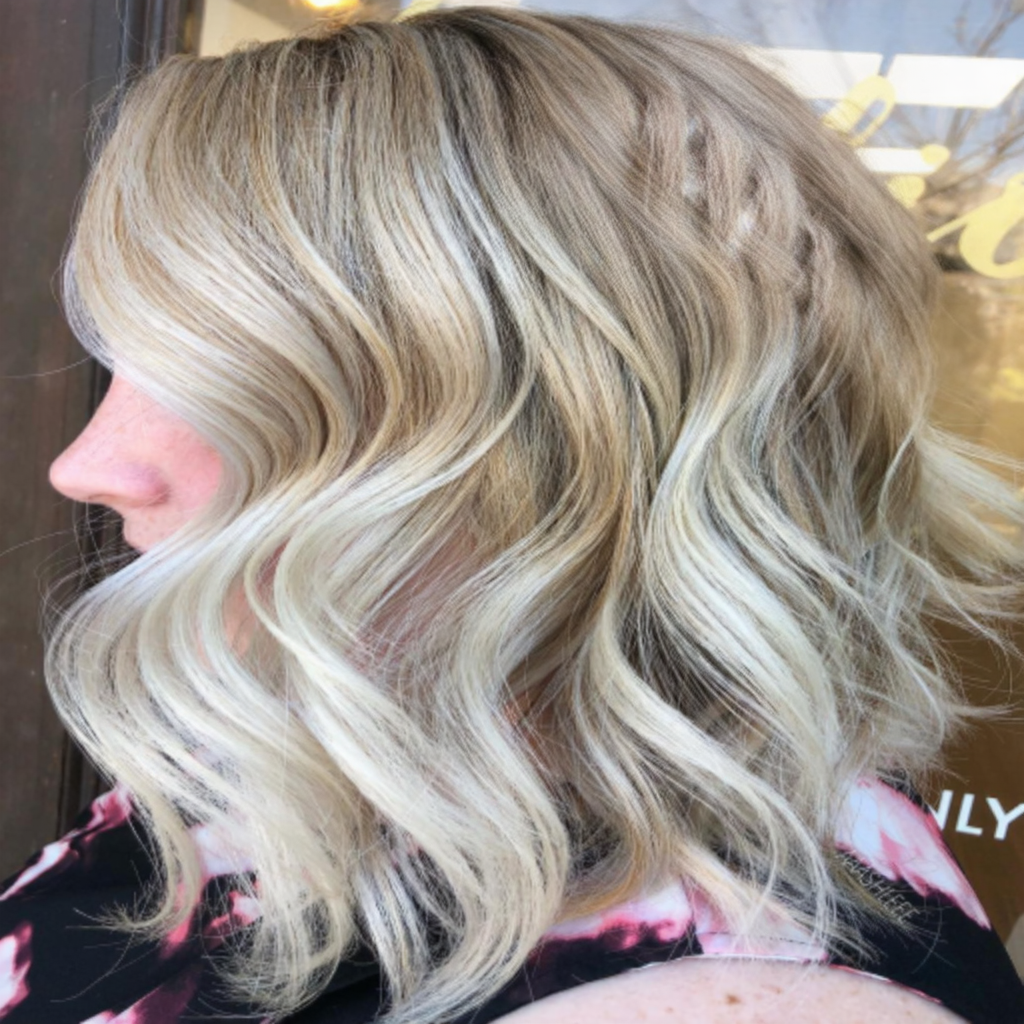
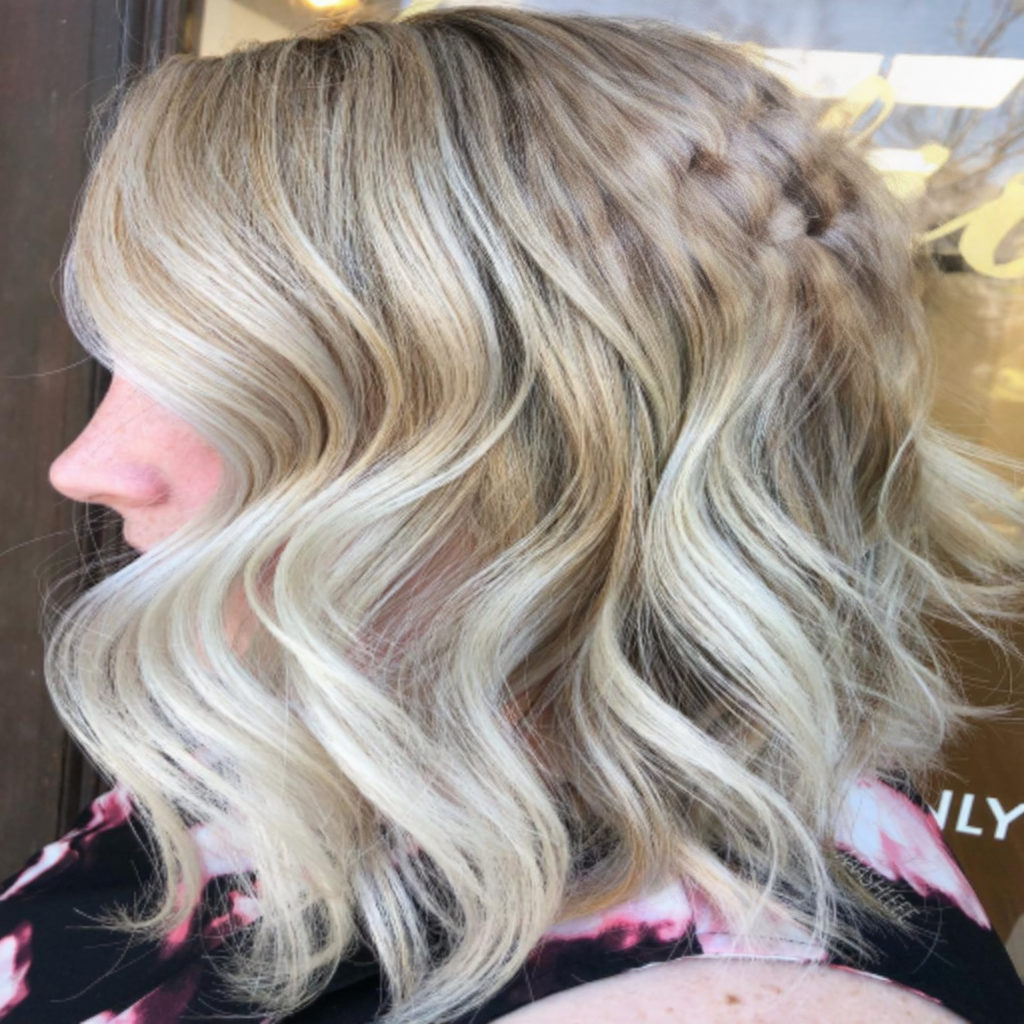
..

Changed region(s): [[0.4688, 0.0, 0.9375, 0.4062], [0.4688, 0.2188, 0.5, 0.25]]

diff --git a/results2.md b/results2.md
@@ -23,15 +23,19 @@
 ### 1. 목표: Identity-Style 분리
 모델이 "얼굴 모양이 이러니 머리는 이래야 해"라고 판단하는 대신, "얼굴이 누구든 상관없이 스케치 선이 있는 곳에 머리를 그려야 한다"는 절대 규칙을 학습
 
-### 2. 핵심 구현: 랜덤 아핀 변형
-`dataset_sd35.py`를 수정하여 학습 시마다 다음 변형을 적용.
-- **배경(얼굴)**: 변형 없이 그대로 유지.
-- **스케치 & 마스크**: 동일한 랜덤 변형(회전, 이동)을 세트로 적용.
-  - **회전(Rotation)**: $-15^{\circ} \sim 15^{\circ}$
-  - **평행 이동(Translation)**: 상하좌우 최대 50픽셀
-- **결과**: 얼굴과 스케치의 위치 관계가 매번 어긋나게 되어, 모델이 스케치에만 의존하여 형태를 잡는 법을 학습
+### 2. 핵심 구현: 데이터 증강 (가장 중요)
+`dataset_sd35.py`를 수정하여 학습 과정 중 모델이 이미지를 볼 때마다 **의도적으로 스케치와 원래 얼굴 이미지를 어긋나게** 만듭니다.
 
-### 3. 학습 프로세스
-1. **`dataset_sd35.py` 수정**: `torchvision.transforms.functional`을 이용한 실시간 변형 로직 추가.
-2. **Stage 1 (Unbraid)**: 일반 머리 데이터로 위치 강인성(Robustness) 기초 학습.
-3. **Stage 2 (Braid)**: 복잡한 땋은 머리 데이터로 정교한 구조 학습 (Gradient Loss 병행).
+- **배경(얼굴/타겟 이미지)**: 변형 없이 제자리에 그대로 둡니다.
+- **스케치(Condition) & 마스크(Mask)**: 형태와 영역을 지시하는 이 두 가지는 **항상 똑같은 증강(Augmentation)을 세트로 적용**하여 위치를 비틉니다.
+  - **좌우 반전 (Horizontal Flip)**: 랜덤 확률(예: 50%)로 좌우 반전 시킵니다. (모델이 특정 얼굴 방향에 맞는 헤어 스타일에 고착화되는 것을 방지)
+  - **회전(Rotation)**: $-15^{\circ} \sim 15^{\circ}$ 사이에서 무작위로 비틉니다.
+  - **평행 이동(Translation)**: 상하좌우 무작위로 약간씩 밀어 조절합니다.
+- **결과**: 모델은 매번 원래 인물의 얼굴 위치/방향과 전혀 맞지 않는 엉뚱한 스케치를 보게 됩니다. 두상을 참고하려다 실패하는 경험을 반복하면서, 오직 **'스케치 선'**만을 믿고 머리를 그리는 법을 완벽하게 마스터하게 됩니다.
+
+### 3. 학습 프로세스: Joint Training (혼합 학습) 및 구조 보존 가중화
+기존의 Stage 1, Stage 2 분리 방식(Curriculum Learning) 대신, 일반 머리(unbraid)와 땋은 머리(braid)를 1:1 비율로 섞어 **한 번에 학습(Joint Training)**합니다.
+
+- **장점**: 모델이 단순한 덩어리(흐름선)와 복잡한 구조(폐쇄된 곡선)를 동시에 번갈아 학습하므로, 특정 스케치 스타일에 편향되지 않고 범용적인 일반화(Generalization) 성능을 갖추며 Catastrophic Forgetting을 방지합니다.
+- **필수 보완점 (디테일 뭉개짐 방지)**: 쉬운 데이터(unbraid)에 섞여 땋은 머리의 세밀한 마디(Knot) 형태가 묻히는 것을 막기 위해 다음을 반드시 적용합니다.
+  - **구조적 손실 (Structural Loss) 추가**: 형태를 명확히 잡기 위해 원본 이미지와 생성 이미지 간의 경계선을 비교하는 **Pixel-Space Gradient Loss를 학습 목표(Objective)에 명시적으로 추가하여 학습**합니다. (이전 논의에서 채택된 방식)
